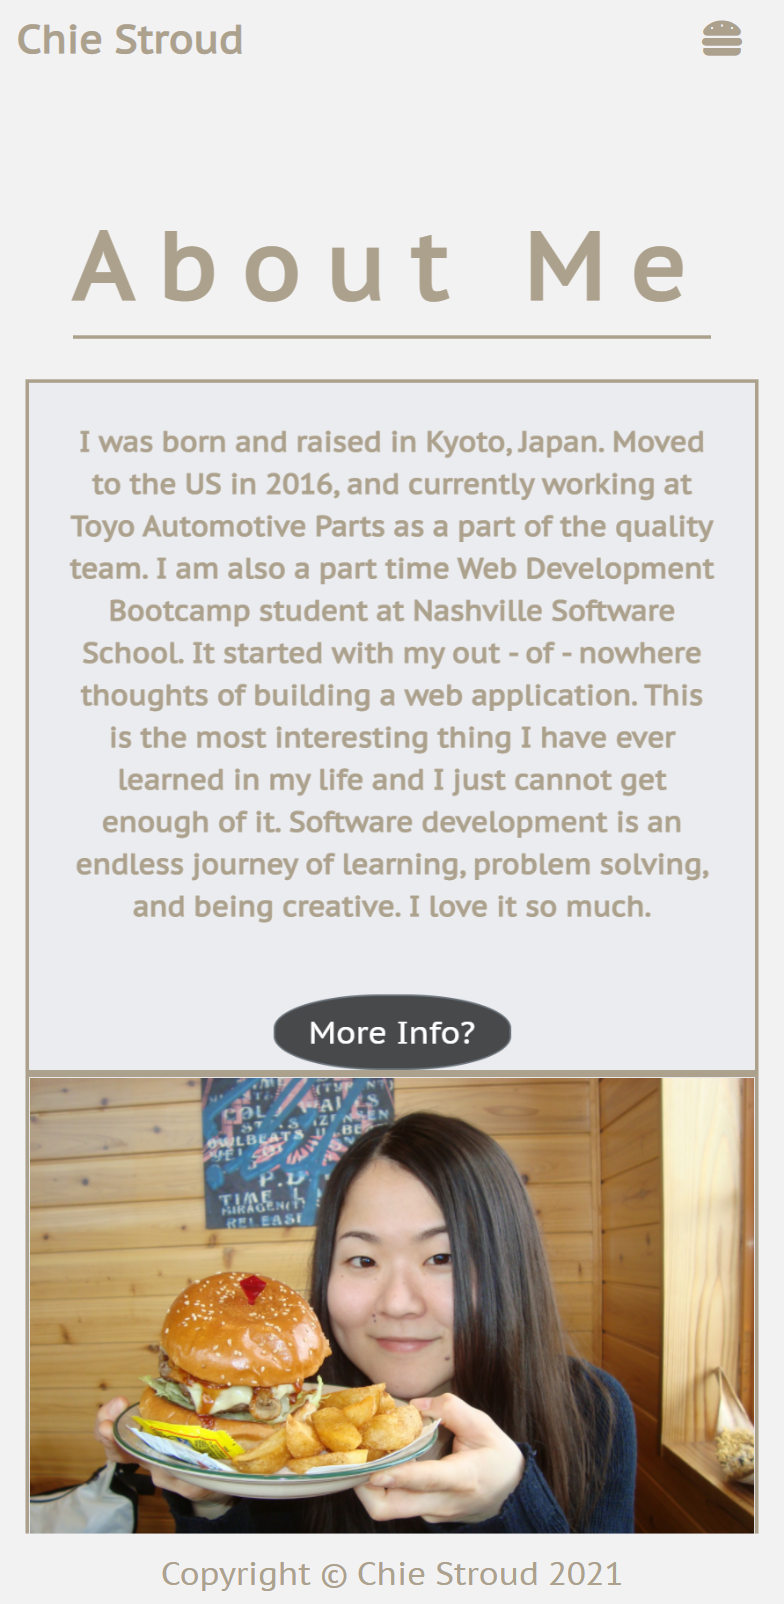
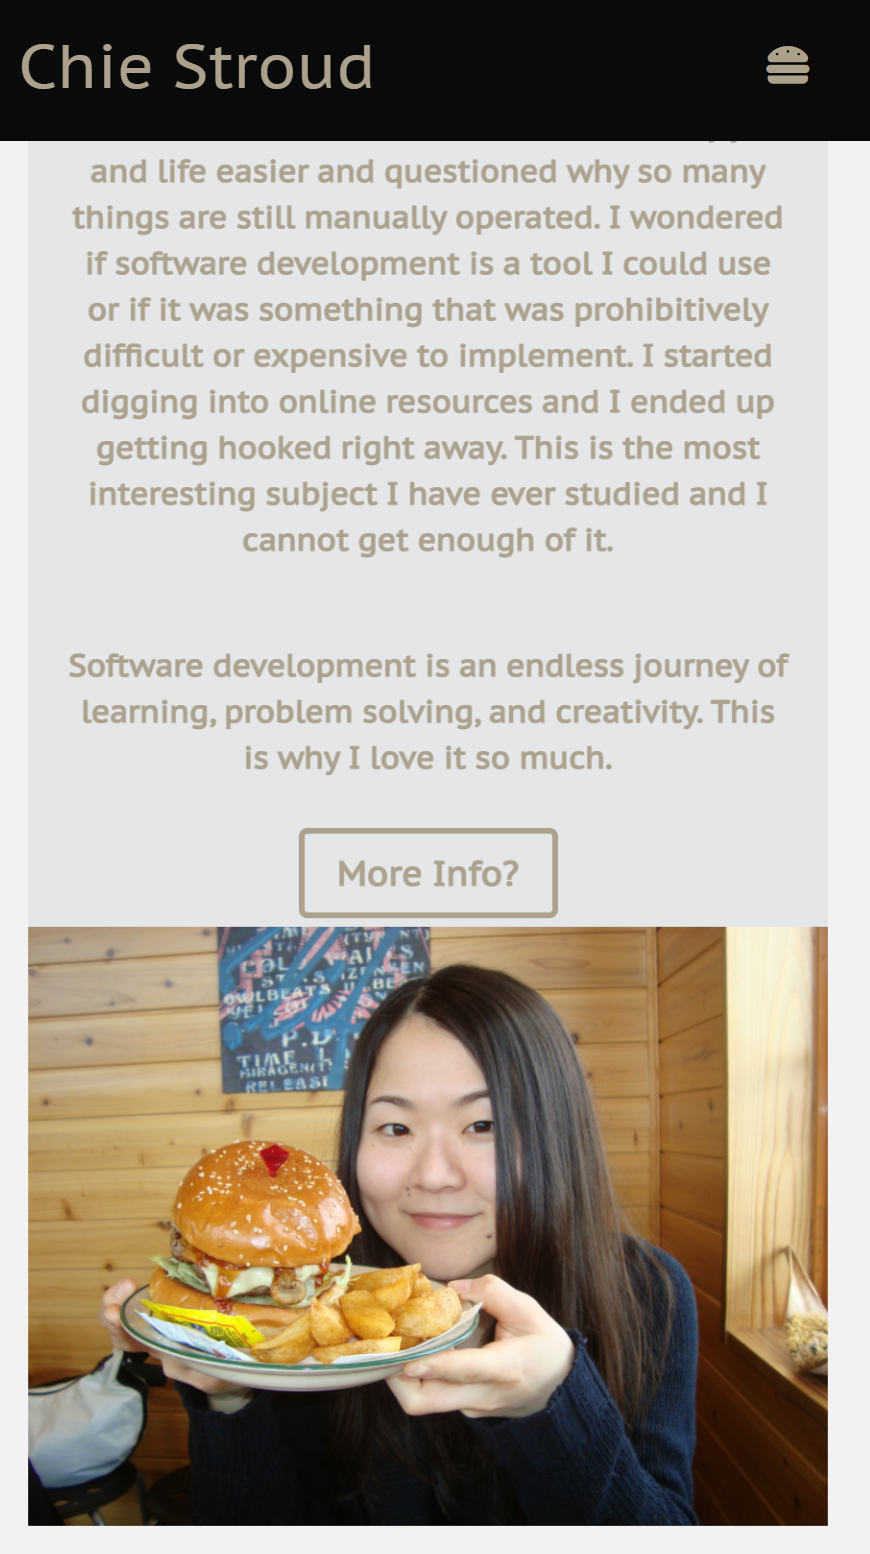
loom video added

diff --git a/src/views/About.js b/src/views/About.js
@@ -14,7 +14,7 @@ export default function about() {
 
   return (
       <motion.section
-        initial={{ y: '150vh' }}
+        initial={{ y: '300vh' }}
         animate={{ y: 0 }}
         transition={{ duration: 1 }}
         className="aboutMe">
@@ -22,7 +22,7 @@ export default function about() {
       <ReactCardFlip isFlipped={isFlipped} flipDirection="horizontal">
         <div className="mainContainer">
           <div className="splitMain">
-            <p className="introduction">Hello, my name is Chie Stroud.</p>
+            <p className="introduction"><span className="mainTitle">Hello, my name is Chie Stroud.</span></p>
             <p className="introduction">I was born and raised in Kyoto, Japan. I lived in Japan most of my life until I moved to the US in 2016, and I am currently working for an automotive manufacturer as a part of the quality team. I am also a part time Web Development Bootcamp student at the Nashville Software School.</p>
             <p className="introduction">My desire to study programming started out of the blue when I began having thoughts on how to build a web application. While at work, I had ideas at random on how to make my job and life easier and questioned why so many things are still manually operated. I wondered if software development is a tool I could use or if it was something that was prohibitively difficult or expensive to implement. I started digging into online resources and I ended up getting hooked right away. This is the most interesting subject I have ever studied and I cannot get enough of it.</p>
             <p className="introduction">Software development is an endless journey of learning, problem solving, and creativity. This is why I love it so much.</p>

diff --git a/src/components/ModalCard.js b/src/components/ModalCard.js
@@ -1,7 +1,7 @@
 import React, { useState } from 'react';
 import PropTypes from 'prop-types';
 import {
-  Button, Modal, ModalHeader, ModalBody, ModalFooter, CardImg
+  Button, Modal, ModalHeader, ModalBody, ModalFooter
 } from 'reactstrap';
 
 const ModalCard = ({
@@ -9,20 +9,20 @@ const ModalCard = ({
   description,
   githubUrl,
   url,
-  screenshot,
-  technologiesUsed
+  technologiesUsed,
+  loom
 }) => {
   const [modal, setModal] = useState(false);
   const [readMore, setReadMore] = useState(false);
 
   const toggle = () => setModal(!modal);
-
+  // https://lh3.googleusercontent.com/w-z38oO6XVRvueOBdacjppFF3NnIG_LQM4CBmwtv-Bc6cd9wX9gMSLPrV4wDGvJvH6AND5oVvEZXz6KFNV2BF5VeJvY40VohJBXAaSLeiy-KVxKSMAh-2c7JVAy_zkBGC0s0-3eroos=w2400
   return (
     <div>
       <Button className="mt-4" id='viewBtn' onClick={toggle}>View {title}</Button>
       <Modal className="modalCard" isOpen={modal} toggle={toggle} size="lg">
         <ModalHeader toggle={toggle}>{title}</ModalHeader>
-        <CardImg className='modalImg' src={screenshot} alt={title} />
+        <div className="videoContainer"><iframe width="100%" height="100%" src={loom}></iframe></div>
         <ModalBody>{readMore ? description : `${description.substring(0, 150)}...`
                 }
               <a className="readMore" onClick={() => setReadMore(!readMore)}>
@@ -49,7 +49,8 @@ ModalCard.propTypes = {
   url: PropTypes.string,
   available: PropTypes.any,
   setProjects: PropTypes.func,
-  user: PropTypes.any
+  user: PropTypes.any,
+  loom: PropTypes.string
 };
 
 export default ModalCard;

diff --git a/src/components/ProjectCards.js b/src/components/ProjectCards.js
@@ -16,6 +16,7 @@ export default function ProjectCards({
   technologiesUsed,
   title,
   url,
+  loom,
   setProjects,
   available,
   user
@@ -38,7 +39,7 @@ export default function ProjectCards({
           <CardImg className='mx-auto d-block' id='projectImg' src={screenshot} alt={title} />
           <div className='hiddenModal'>
             <CardTitle className='hidden' tag='h4'>{title}</CardTitle>
-            <ModalCard title={title} description={description} githubUrl={githubUrl} url={url} screenshot={screenshot} technologiesUsed={technologiesUsed}/>
+            <ModalCard title={title} description={description} githubUrl={githubUrl} url={url} screenshot={screenshot} loom={loom} technologiesUsed={technologiesUsed}/>
           </div>
           </CardBody>
         : ''
@@ -59,6 +60,7 @@ export default function ProjectCards({
             setProjects={setProjects}
             available={available}
             setEditing={setEditing}
+            loom={loom}
           />}
         <Button color='danger' onClick={() => handleClick('delete')}>Delete</Button>
       </div>
@@ -77,5 +79,6 @@ ProjectCards.propTypes = {
   url: PropTypes.string,
   available: PropTypes.any,
   setProjects: PropTypes.func,
-  user: PropTypes.any
+  user: PropTypes.any,
+  loom: PropTypes.string
 };

diff --git a/src/styles/index.scss b/src/styles/index.scss
@@ -112,7 +112,7 @@ nav.navbar.navbar-expand-md.fixed-bottom {
   color: $favColor;
   letter-spacing: 14px;
   font-weight: bold;
-  padding-top: 13%;
+  padding-top: 11%;
 }
 
 .jobTitle {
@@ -136,7 +136,6 @@ div.btnContainer {
 }
 
 #about:hover {
-  background-color: $favColor;
   background-color: black;
 }
 
@@ -153,6 +152,10 @@ div.btnContainer {
   text-align: center;
 }
 
+.mainTitle {
+  font-size: 1.3rem;
+}
+
 .about {
   align-self: center;
   font-size: 4rem;
@@ -160,7 +163,7 @@ div.btnContainer {
   color: $favColor;
   letter-spacing: 14px;
   font-weight: bold;
-  padding-top: 10%;
+  padding-top: 8%;
 }
 
 div.react-card-front {
@@ -195,9 +198,8 @@ ul.introduction-back {
   align-items: center;
   justify-content: center;
   color: $favColor;
+  background-color: #e4e6e8;
   font-size: 1.2rem;
-  background-color: #ebecf0;
-  border: $favColor 2px solid;
 }
 
 .profileImg {
@@ -352,6 +354,10 @@ div.card.m-5.text-center.marginLeft {
   padding: 0;
 }
 
+.videoContainer {
+  height: 300px;
+}
+
 // Modal Btn
 
 #viewBtn {
@@ -370,6 +376,7 @@ div.card.m-5.text-center.marginLeft {
 }
 #btnModal:hover {
   background-color: #2B2D2F;
+  color: #ffffed;
 }
 
 // Technlogy Page

diff --git a/src/views/ProjectForm.js b/src/views/ProjectForm.js
@@ -12,6 +12,7 @@ export default function ProjectForm({
   screenshot,
   technologiesUsed,
   title,
+  loom,
   url,
   setProjects,
   available,
@@ -26,7 +27,8 @@ export default function ProjectForm({
     githubUrl: githubUrl || '',
     screenshot: screenshot || '',
     url: url || '',
-    technologiesUsed: technologiesUsed || ''
+    technologiesUsed: technologiesUsed || '',
+    loom: loom || ''
   });
 
   const handleSubmit = (e) => {
@@ -87,6 +89,16 @@ export default function ProjectForm({
         />
       </FormGroup>
       <FormGroup>
+        <Label for="loom">Loom Video</Label>
+        <Input
+          type="url"
+          name="loom"
+          id="loom"
+          value={project.loom}
+          onChange={handleInputChange}
+        />
+      </FormGroup>
+      <FormGroup>
         <Label for="technologies">Technologies Used</Label>
         <Input
           type="text"
@@ -143,6 +155,7 @@ ProjectForm.propTypes = {
   screenshot: PropTypes.string,
   technologiesUsed: PropTypes.string,
   title: PropTypes.string,
+  loom: PropTypes.string,
   url: PropTypes.string,
   setProjects: PropTypes.func,
   available: PropTypes.any,

diff --git a/src/views/Contact.js b/src/views/Contact.js
@@ -5,7 +5,7 @@ import { motion } from 'framer-motion';
 export default function Contact() {
   return (
     <motion.main
-      initial={{ y: '150vh' }}
+      initial={{ y: '300vh' }}
       animate={{ y: 0 }}
       transition={{ duration: 1 }}
       className="contactSplit">

diff --git a/src/views/Technologies.js b/src/views/Technologies.js
@@ -28,7 +28,7 @@ export default function Technologies({ user }) {
 
   return (
     <motion.main
-      initial={{ y: '150vh' }}
+      initial={{ y: '300vh' }}
       animate={{ y: 0 }}
       transition={{ duration: 1 }}
     >

diff --git a/src/views/Projects.js b/src/views/Projects.js
@@ -21,7 +21,7 @@ export default function Projects({ user }) {
 
   return (
     <motion.main
-      initial={{ y: '200vh' }}
+      initial={{ y: '300vh' }}
       animate={{ y: 0 }}
       transition={{ duration: 1 }}
     >
